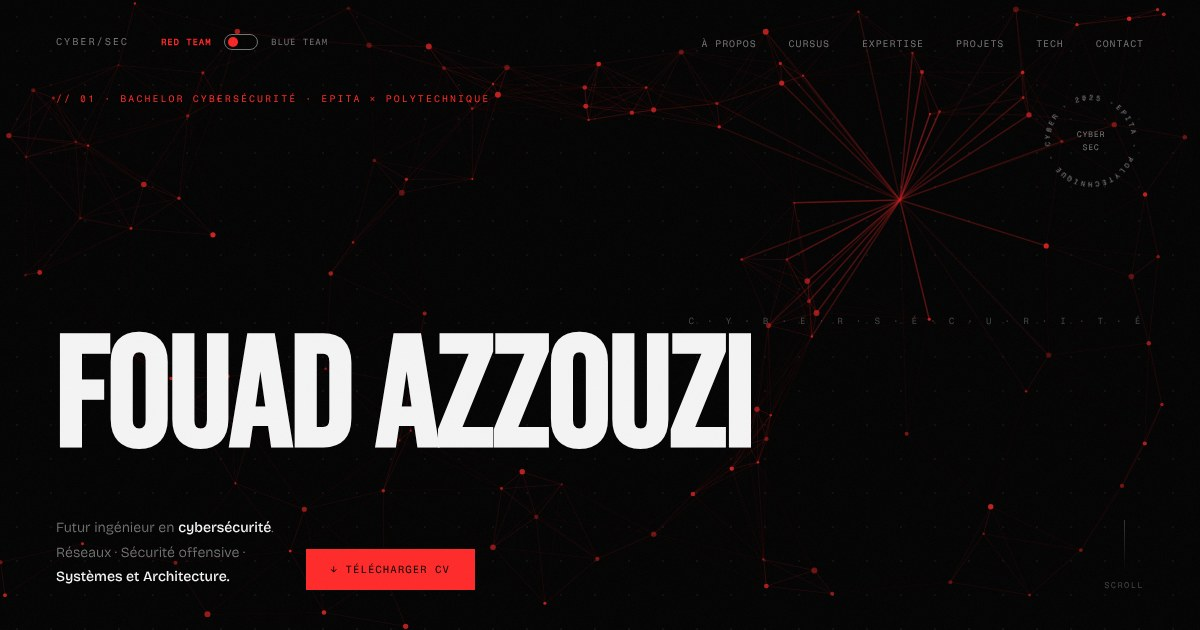
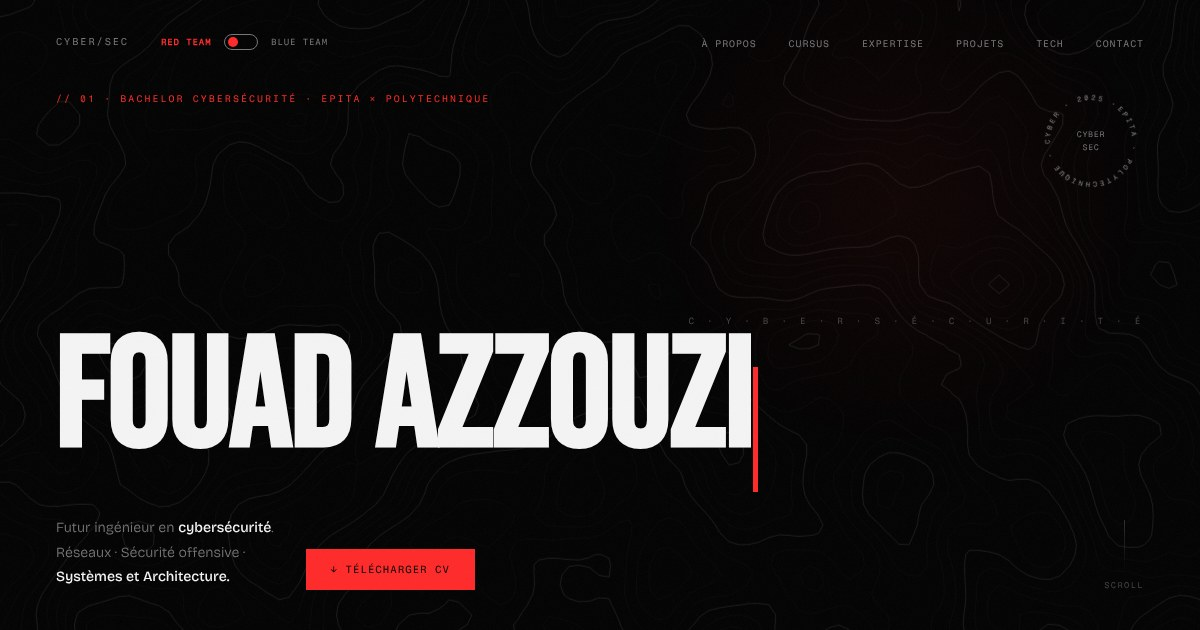
Add files via upload

diff --git a/script.js b/script.js
@@ -64,7 +64,7 @@ toggleBtn.addEventListener('click', () => {
     }
 
     // Mettre à jour la vitesse des particules instantanément
-    pts.forEach(p => p.setTeamSpeed(isBlueTeam));
+    bgSetTeam();
     playClick();
 });
 
@@ -169,122 +169,92 @@ const tickId = setInterval(() => {
   }
 }, 28);
 
-/* ─── CANVAS AVANCÉ (RED TEAM vs BLUE TEAM) ─── */
+/* ─── FOND : COURBES DE NIVEAU (topographie) ─── */
 const cvs  = document.getElementById('cvs');
 const gctx = cvs.getContext('2d');
-let pts = [];
-let N = window.innerWidth > 768 ? 130 : 50; 
-const DIST = 160;
+let W = 0, H = 0, DPR = 1;
 
-function resize() {
-  cvs.width  = window.innerWidth;
-  cvs.height = window.innerHeight;
-  N = window.innerWidth > 768 ? 130 : 50;
-  initPts();
+function accent(a) { return isBlueTeam ? `rgba(0,229,255,${a})` : `rgba(255,42,42,${a})`; }
+
+{ const st = document.createElement('style');
+  st.textContent = '#hero::before{display:none}';
+  document.head.appendChild(st); }
+
+/* — bruit 2D (pour 'topo') — */
+const PERM = new Uint8Array(512);
+(function () { const p = [...Array(256).keys()]; let s = 1337;
+  for (let i = 255; i > 0; i--) { s = (s * 16807) % 2147483647; const j = s % (i + 1); [p[i], p[j]] = [p[j], p[i]]; }
+  for (let i = 0; i < 512; i++) PERM[i] = p[i & 255]; })();
+function grad(h, x, y) { const a = (h & 7) * Math.PI / 4; return Math.cos(a) * x + Math.sin(a) * y; }
+function noise(x, y) {
+  const X = Math.floor(x) & 255, Y = Math.floor(y) & 255, xf = x - Math.floor(x), yf = y - Math.floor(y);
+  const f = t => t * t * t * (t * (t * 6 - 15) + 10), u = f(xf), v = f(yf);
+  const aa = PERM[PERM[X] + Y], ab = PERM[PERM[X] + Y + 1], ba = PERM[PERM[X + 1] + Y], bb = PERM[PERM[X + 1] + Y + 1];
+  const l1 = grad(aa, xf, yf) + u * (grad(ba, xf - 1, yf) - grad(aa, xf, yf));
+  const l2 = grad(ab, xf, yf - 1) + u * (grad(bb, xf - 1, yf - 1) - grad(ab, xf, yf - 1));
+  return l1 + v * (l2 - l1);
 }
+function fbm(x, y) { return noise(x, y) * .6 + noise(x * 2.1, y * 2.1) * .3 + noise(x * 4.3, y * 4.3) * .1; }
 
-class Pt {
-  constructor() {
-    this.x  = Math.random() * window.innerWidth;
-    this.y  = Math.random() * window.innerHeight;
-    this.r  = Math.random() * 2 + 1;
-    this.a  = Math.random() * .7 + .3;
-    this.setTeamSpeed(isBlueTeam);
-  }
-  
-  setTeamSpeed(isBlue) {
-    if(isBlue) {
-        // Vitesse très lente (Défense/Monitoring)
-        this.vx = (Math.random() - .5) * 0.15;
-        this.vy = (Math.random() - .5) * 0.15;
-    } else {
-        // Vitesse agressive (Attaque)
-        this.vx = (Math.random() - .5) * 0.5;
-        this.vy = (Math.random() - .5) * 0.5;
-    }
-  }
-
-  move() {
-    this.x += this.vx;
-    this.y += this.vy;
-    if (this.x < 0 || this.x > window.innerWidth)  this.vx *= -1;
-    if (this.y < 0 || this.y > window.innerHeight) this.vy *= -1;
-    
-    const dx = this.x - mx, dy = this.y - my;
-    const d  = Math.sqrt(dx*dx + dy*dy);
-    
-    if(!isBlueTeam) {
-        // RED TEAM : Attraction agressive
-        if (d < 200 && d > 0) {
-          const f = (200 - d) / 200;
-          this.x += (dx / d) * f * 2.5;
-          this.y += (dy / d) * f * 2.5;
-        }
-    } else {
-        // BLUE TEAM : Répulsion douce (Bouclier/Shield)
-        if (d < 150 && d > 0) {
-          const f = (150 - d) / 150;
-          this.x -= (dx / d) * f * 0.5;
-          this.y -= (dy / d) * f * 0.5;
-        }
-    }
-  }
-  draw() {
-    gctx.beginPath();
-    gctx.arc(this.x, this.y, this.r, 0, Math.PI * 2);
-    gctx.fillStyle = isBlueTeam ? `rgba(0, 229, 255, ${this.a})` : `rgba(255, 42, 42, ${this.a})`;
-    gctx.fill();
-  }
-}
-
-function initPts() { pts = Array.from({length: N}, () => new Pt()); }
-
-(function frame() {
-  gctx.clearRect(0, 0, window.innerWidth, window.innerHeight);
-  for (let i = 0; i < pts.length; i++) {
-    pts[i].move(); pts[i].draw();
-    for (let j = i + 1; j < pts.length; j++) {
-      const dx = pts[i].x - pts[j].x, dy = pts[i].y - pts[j].y;
-      const d  = Math.sqrt(dx*dx + dy*dy);
-      if (d < DIST) {
-        gctx.beginPath();
-        gctx.moveTo(pts[i].x, pts[i].y);
-        
-        if(isBlueTeam) {
-            // Lignes Circuit Imprimé (Orthogonales)
-            gctx.lineTo(pts[i].x, pts[j].y);
-            gctx.lineTo(pts[j].x, pts[j].y);
-            gctx.strokeStyle = `rgba(0, 229, 255, ${(1 - d/DIST) * 0.25})`; 
-        } else {
-            // Lignes Directes Agressives
-            gctx.lineTo(pts[j].x, pts[j].y);
-            gctx.strokeStyle = `rgba(255, 42, 42, ${(1 - d/DIST) * 0.25})`; 
-        }
-        
-        gctx.lineWidth   = .8;
-        gctx.stroke();
+let topoCanvas = null;
+function buildTopo() {
+  const pad = 400, w = W + pad, h = H + pad, cell = 10;
+  topoCanvas = document.createElement('canvas');
+  topoCanvas.width = w * DPR; topoCanvas.height = h * DPR;
+  const c = topoCanvas.getContext('2d'); c.scale(DPR, DPR);
+  const cols = Math.ceil(w / cell) + 1, rows = Math.ceil(h / cell) + 1, sc = 0.0042;
+  const v = new Float32Array(cols * rows);
+  for (let j = 0; j < rows; j++) for (let i = 0; i < cols; i++) v[j * cols + i] = fbm(i * cell * sc, j * cell * sc);
+  const levels = 22;
+  for (let L = 0; L < levels; L++) {
+    const t = -0.6 + 1.2 * L / levels, major = L % 4 === 0;
+    c.beginPath();
+    for (let j = 0; j < rows - 1; j++) for (let i = 0; i < cols - 1; i++) {
+      const a = v[j * cols + i], b = v[j * cols + i + 1], d = v[(j + 1) * cols + i], e = v[(j + 1) * cols + i + 1];
+      const k = (a > t ? 8 : 0) | (b > t ? 4 : 0) | (e > t ? 2 : 0) | (d > t ? 1 : 0);
+      if (k === 0 || k === 15) continue;
+      const x = i * cell, y = j * cell, lp = (p, q) => (t - p) / (q - p);
+      const T = [x + cell * lp(a, b), y], R = [x + cell, y + cell * lp(b, e)],
+            B = [x + cell * lp(d, e), y + cell], Lf = [x, y + cell * lp(a, d)];
+      const seg = (p, q) => { c.moveTo(p[0], p[1]); c.lineTo(q[0], q[1]); };
+      switch (k) {
+        case 1: case 14: seg(Lf, B); break;   case 2: case 13: seg(B, R); break;
+        case 3: case 12: seg(Lf, R); break;   case 4: case 11: seg(T, R); break;
+        case 5: seg(Lf, T); seg(B, R); break; case 6: case 9: seg(T, B); break;
+        case 7: case 8: seg(Lf, T); break;    case 10: seg(T, R); seg(Lf, B); break;
       }
     }
-    
-    // Lignes vers la souris
-    const dMouse = Math.sqrt(Math.pow(pts[i].x - mx, 2) + Math.pow(pts[i].y - my, 2));
-    if(dMouse < 250) {
-        gctx.beginPath();
-        gctx.moveTo(pts[i].x, pts[i].y);
-        
-        if(isBlueTeam) {
-             gctx.lineTo(pts[i].x, my);
-             gctx.lineTo(mx, my);
-             gctx.strokeStyle = `rgba(0, 229, 255, ${(1 - dMouse/250) * 0.5})`;
-        } else {
-             gctx.lineTo(mx, my);
-             gctx.strokeStyle = `rgba(255, 42, 42, ${(1 - dMouse/250) * 0.8})`;
-        }
-        
-        gctx.lineWidth = isBlueTeam ? 1 : 1.5;
-        gctx.stroke();
-    }
+    c.strokeStyle = major ? 'rgba(255,255,255,0.13)' : 'rgba(255,255,255,0.06)';
+    c.lineWidth = major ? 1 : .7;
+    c.stroke();
   }
+}
+
+function resize() {
+  DPR = Math.min(window.devicePixelRatio || 1, 2);
+  W = window.innerWidth; H = window.innerHeight;
+  cvs.width = W * DPR; cvs.height = H * DPR;
+  gctx.setTransform(DPR, 0, 0, DPR, 0, 0);
+  buildTopo();
+}
+
+function bgSetTeam() {}
+
+let topoT = 0;
+function drawTopo() {
+  if (!topoCanvas) return;
+  topoT += isBlueTeam ? 0.05 : 0.12;
+  const ox = -200 + Math.sin(topoT / 400) * 120 + (mx / W - .5) * -30;
+  const oy = -200 + Math.cos(topoT / 500) * 120 + (my / H - .5) * -30;
+  gctx.drawImage(topoCanvas, ox, oy, W + 400, H + 400);
+  const g = gctx.createRadialGradient(mx, my, 0, mx, my, 260);
+  g.addColorStop(0, accent(0.07)); g.addColorStop(1, accent(0));
+  gctx.fillStyle = g; gctx.fillRect(0, 0, W, H);
+}
+
+(function frame() {
+  gctx.clearRect(0, 0, W, H);
+  drawTopo();
   requestAnimationFrame(frame);
 })();
 
@@ -296,7 +266,9 @@ const prog = document.getElementById('prog');
 const secs = ['about','curriculum','expertise','projets','skills','contact'];
 const navLinks = document.querySelectorAll('.nlinks a[data-sec]');
 
+const navEl = document.querySelector('nav');
 window.addEventListener('scroll', () => {
+  navEl.classList.toggle('scrolled', scrollY > 40);
   const p = scrollY / (document.documentElement.scrollHeight - innerHeight);
   prog.style.width = Math.min(p * 100, 100) + '%';
   let cur = '';

diff --git a/style.css b/style.css
@@ -69,7 +69,8 @@ body::after {
 /* ══════════════════════════════════════════
    NAV & TEAM TOGGLE
 ══════════════════════════════════════════ */
-nav { position: fixed; top: 0; left: 0; right: 0; z-index: 500; padding: 2rem 3.5rem; display: flex; justify-content: space-between; align-items: center; mix-blend-mode: difference; }
+nav { position: fixed; top: 0; left: 0; right: 0; z-index: 500; padding: 2rem 3.5rem; display: flex; justify-content: space-between; align-items: center; transition: background .3s, padding .3s, border-color .3s; border-bottom: 1px solid transparent; }
+nav.scrolled { background: rgba(3,3,3,.82); -webkit-backdrop-filter: blur(14px); backdrop-filter: blur(14px); border-bottom-color: var(--bdr); padding-top: 1.1rem; padding-bottom: 1.1rem; }
 .nlogo { font-family: var(--M); font-size: .62rem; color: var(--dim2); letter-spacing: .2em; text-transform: uppercase; transition: color .2s; }
 .nlogo:hover { color: var(--acc); }
 .nlinks { display: flex; gap: 2rem; }
@@ -335,3 +336,22 @@ body.blue-team .glitch-hover:hover { color: var(--txt); text-shadow: 0 0 10px rg
   .ysub { display: none; }
   .tbtn { padding: .7rem .6rem; white-space: normal; }
 }
+
+/* ══════════════════════════════════════════
+   COULEURS HOMOGÈNES : neutre par défaut, couleur d'accent au survol
+══════════════════════════════════════════ */
+.ects, .ects.r { background: transparent; color: var(--dim2); border: 1px solid var(--bdr); transition: background .3s, color .3s, border-color .3s; }
+.ue:hover .ects { background: var(--acc); color: var(--bg); border-color: var(--acc); }
+.cf, .cf.r { color: var(--dim); transition: color .3s; }
+.ue:hover .cf { color: var(--acc); }
+.ue.cy { border: none; opacity: 1; }
+.tag.hi { border-color: var(--bdr); color: var(--dim2); opacity: 1; }
+.tag.hi:hover { color: var(--bg); border-color: var(--acc); }
+.skill-group::before, .skill-group.cy::before, .skill-group.ac::before { background: var(--acc); }
+.skill-group h3, .skill-group.cy h3, .skill-group.ac h3 { color: var(--txt); transition: color .3s; }
+.skill-group:hover h3 { color: var(--acc); }
+.prj-num { color: var(--dim2); }
+.prj-card:hover .prj-num { color: var(--acc); }
+/* Grille du cursus : pas de case grise vide en fin de ligne */
+.ue-grid { background: none; gap: 0; }
+.ue { box-shadow: inset -1px -1px 0 var(--bdr); }
